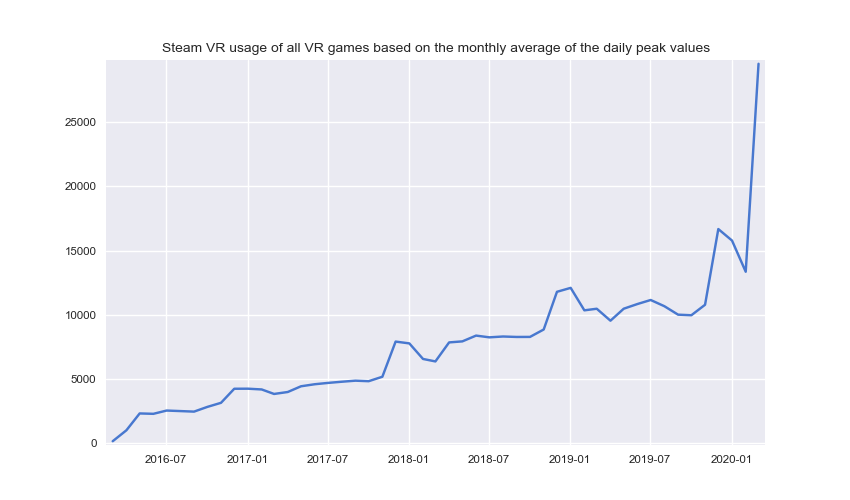
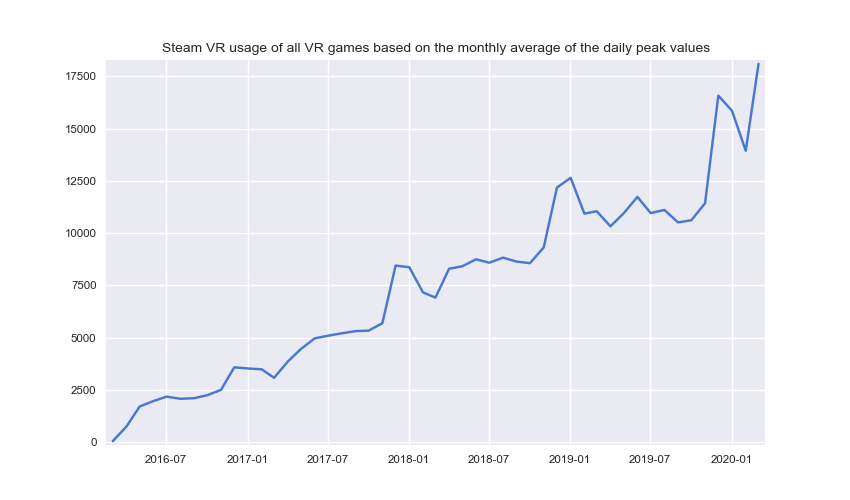
update

diff --git a/src/sql_query.py b/src/sql_query.py
@@ -65,33 +65,33 @@ def top10_previous_month(start_date):
     return c.fetchall()
 
 
-# def peak_players():
-#     """Returns the monthly average of the daily peak values since 2016-03 as a list."""
-#     c.execute('''
-#     Select new_date, sum(average) from (SELECT strftime('%Y-%m', date) as new_date,
-#     sum(players)/(julianday(date,'start of month','+1 month') - julianday(date,'start of month'))
-#     as average from vr_players
-#     WHERE date != '2019-07-24' and date > '2016-03' and date < date('now','start of month')
-#     GROUP by appid, new_date
-#     ORDER by new_date)
-#     WHERE average >= 1
-#     Group by new_date
-#     ''')
-#     return c.fetchall()
-
-
 def peak_players():
     """Returns the monthly average of the daily peak values since 2016-03 as a list."""
     c.execute('''
     Select new_date, sum(average) from (SELECT strftime('%Y-%m', date) as new_date,
-    avg(players) as average from vr_players
+    sum(players)/(julianday(date,'start of month','+1 month') - julianday(date,'start of month'))
+    as average from vr_players
     WHERE date != '2019-07-24' and date > '2016-03' and date < date('now','start of month')
     GROUP by appid, new_date
     ORDER by new_date)
-    WHERE average > 2
+    WHERE average >= 1
     Group by new_date
     ''')
     return c.fetchall()
+
+
+# def peak_players():
+#     """Returns the monthly average of the daily peak values since 2016-03 as a list."""
+#     c.execute('''
+#     Select new_date, sum(average) from (SELECT strftime('%Y-%m', date) as new_date,
+#     avg(players) as average from vr_players
+#     WHERE date != '2019-07-24' and date > '2016-03' and date < date('now','start of month')
+#     GROUP by appid, new_date
+#     ORDER by new_date)
+#     WHERE average > 2
+#     Group by new_date
+#     ''')
+#     return c.fetchall()
 
 
 def max_peak_players(appid):
